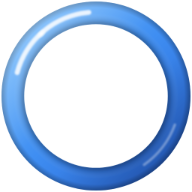
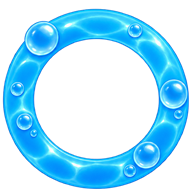
Новые украшения карты и фон «Солнечная долина» (v31)

diff --git a/sw.js b/sw.js
@@ -1,4 +1,4 @@
-const CACHE='yamogu-v30';
+const CACHE='yamogu-v31';
 const FILES=['./','index.html','css/app.css','js/vendor/confetti.browser.min.js','js/vendor/howler.min.js','sounds/ok.wav','js/tokens.js','js/icons.js','js/storage.js','js/app.js','js/skills.js','js/report.js','js/wishes.js','js/onboarding.js','js/cosmetics.js','js/backup.js','js/parent.js','js/route.js','js/scene.js','manifest.webmanifest','icons/icon-180.png','icons/icon-192.png','icons/icon-512.png','img/decor/flag_blue.png','img/decor/flag_flower.png','img/decor/flag_red.png','img/decor/flag_star.png','img/decor/ring_blue.png','img/decor/ring_gold.png','img/decor/ring_rainbow.png','img/decor/ring_white.png','img/decor/trail_gold.png','img/decor/trail_green.png','img/decor/trail_sand.png','img/decor/trail_stone.png','img/decor/trees_autumn.png','img/decor/trees_cherry.png','img/decor/trees_pine.png','img/decor/trees_round.png','img/kirill_portrait.png','img/ref_bg_today.jpg','img/ref_check_done.png','img/ref_logo.png','img/ref_nav_bars.png','img/ref_nav_bars_off.png','img/ref_nav_home.png','img/ref_nav_home_off.png','img/ref_nav_menu.png','img/ref_nav_menu_off.png','img/ref_nav_star.png','img/ref_nav_star_off.png','img/ref_skill_bag.png','img/ref_skill_bed.png','img/ref_skill_book.png','img/ref_skill_broom.png','img/ref_skill_kitchen.png','img/ref_skill_shirt.png','img/ref_stat_bag.png','img/ref_stat_check.png','img/ref_stat_cup.png','img/ref_stat_heart.png','img/ref_stat_star.png','img/ref_stat_target.png','img/ref_sun.png','img/ref_task_bag.png','img/ref_task_bed.png','img/ref_task_shirt.png','img/skill_money.png','img/skill_plan.png','img/skill_sport.png','img/vika_portrait.png'];
 self.addEventListener('install',e=>{e.waitUntil(caches.open(CACHE).then(c=>c.addAll(FILES)));self.skipWaiting()});
 self.addEventListener('activate',e=>{e.waitUntil(caches.keys().then(k=>Promise.all(k.filter(x=>x!==CACHE).map(x=>caches.delete(x)))));self.clients.claim()});

diff --git a/js/cosmetics.js b/js/cosmetics.js
@@ -12,8 +12,8 @@ const PRICE={COMMON:100,SPECIAL:250,ELITE:500,PREMIUM:800},REFUND_MS=24*60*60*10
 const DECO=[
  {id:'flag_red',t:'Красный флаг',slot:'FLAG',r:'COMMON',way:'D'},
  {id:'flag_blue',t:'Синий флаг',slot:'FLAG',r:'COMMON',way:PRICE.COMMON},
- {id:'flag_star',t:'Флаг со звездой',slot:'FLAG',r:'SPECIAL',way:'FIRST_TASK'},
- {id:'flag_flower',t:'Цветочный флаг',slot:'FLAG',r:'ELITE',way:PRICE.ELITE},
+ {id:'flag_star',t:'Жёлтый флаг с цветком',slot:'FLAG',r:'SPECIAL',way:'FIRST_TASK'},
+ {id:'flag_flower',t:'Зелёный флаг с цветком',slot:'FLAG',r:'ELITE',way:PRICE.ELITE},
  {id:'trail_sand',t:'Песчаная дорожка',slot:'TRAIL',r:'COMMON',way:'D'},
  {id:'trail_stone',t:'Каменная дорожка',slot:'TRAIL',r:'COMMON',way:PRICE.COMMON},
  {id:'trail_green',t:'Лесная тропа',slot:'TRAIL',r:'SPECIAL',way:'COINS_200'},
@@ -24,8 +24,8 @@ const DECO=[
  {id:'trees_autumn',t:'Осенние деревья',slot:'TREES',r:'SPECIAL',way:PRICE.SPECIAL},
  {id:'ring_white',t:'Белая рамка',slot:'RING',r:'COMMON',way:'D'},
  {id:'ring_blue',t:'Синяя рамка',slot:'RING',r:'COMMON',way:PRICE.COMMON},
- {id:'ring_gold',t:'Золотая рамка',slot:'RING',r:'SPECIAL',way:'SUMMIT'},
- {id:'ring_rainbow',t:'Радужная рамка',slot:'RING',r:'PREMIUM',way:PRICE.PREMIUM}];
+ {id:'ring_gold',t:'Жёлтая рамка с цветами',slot:'RING',r:'SPECIAL',way:'SUMMIT'},
+ {id:'ring_rainbow',t:'Мятная рамка с цветами',slot:'RING',r:'PREMIUM',way:PRICE.PREMIUM}];
 const decoById=id=>DECO.find(x=>x.id===id);
 const decoDefault=slot=>DECO.find(x=>x.slot===slot&&x.way==='D');
 const decoImg=id=>'img/decor/'+id+'.png';
